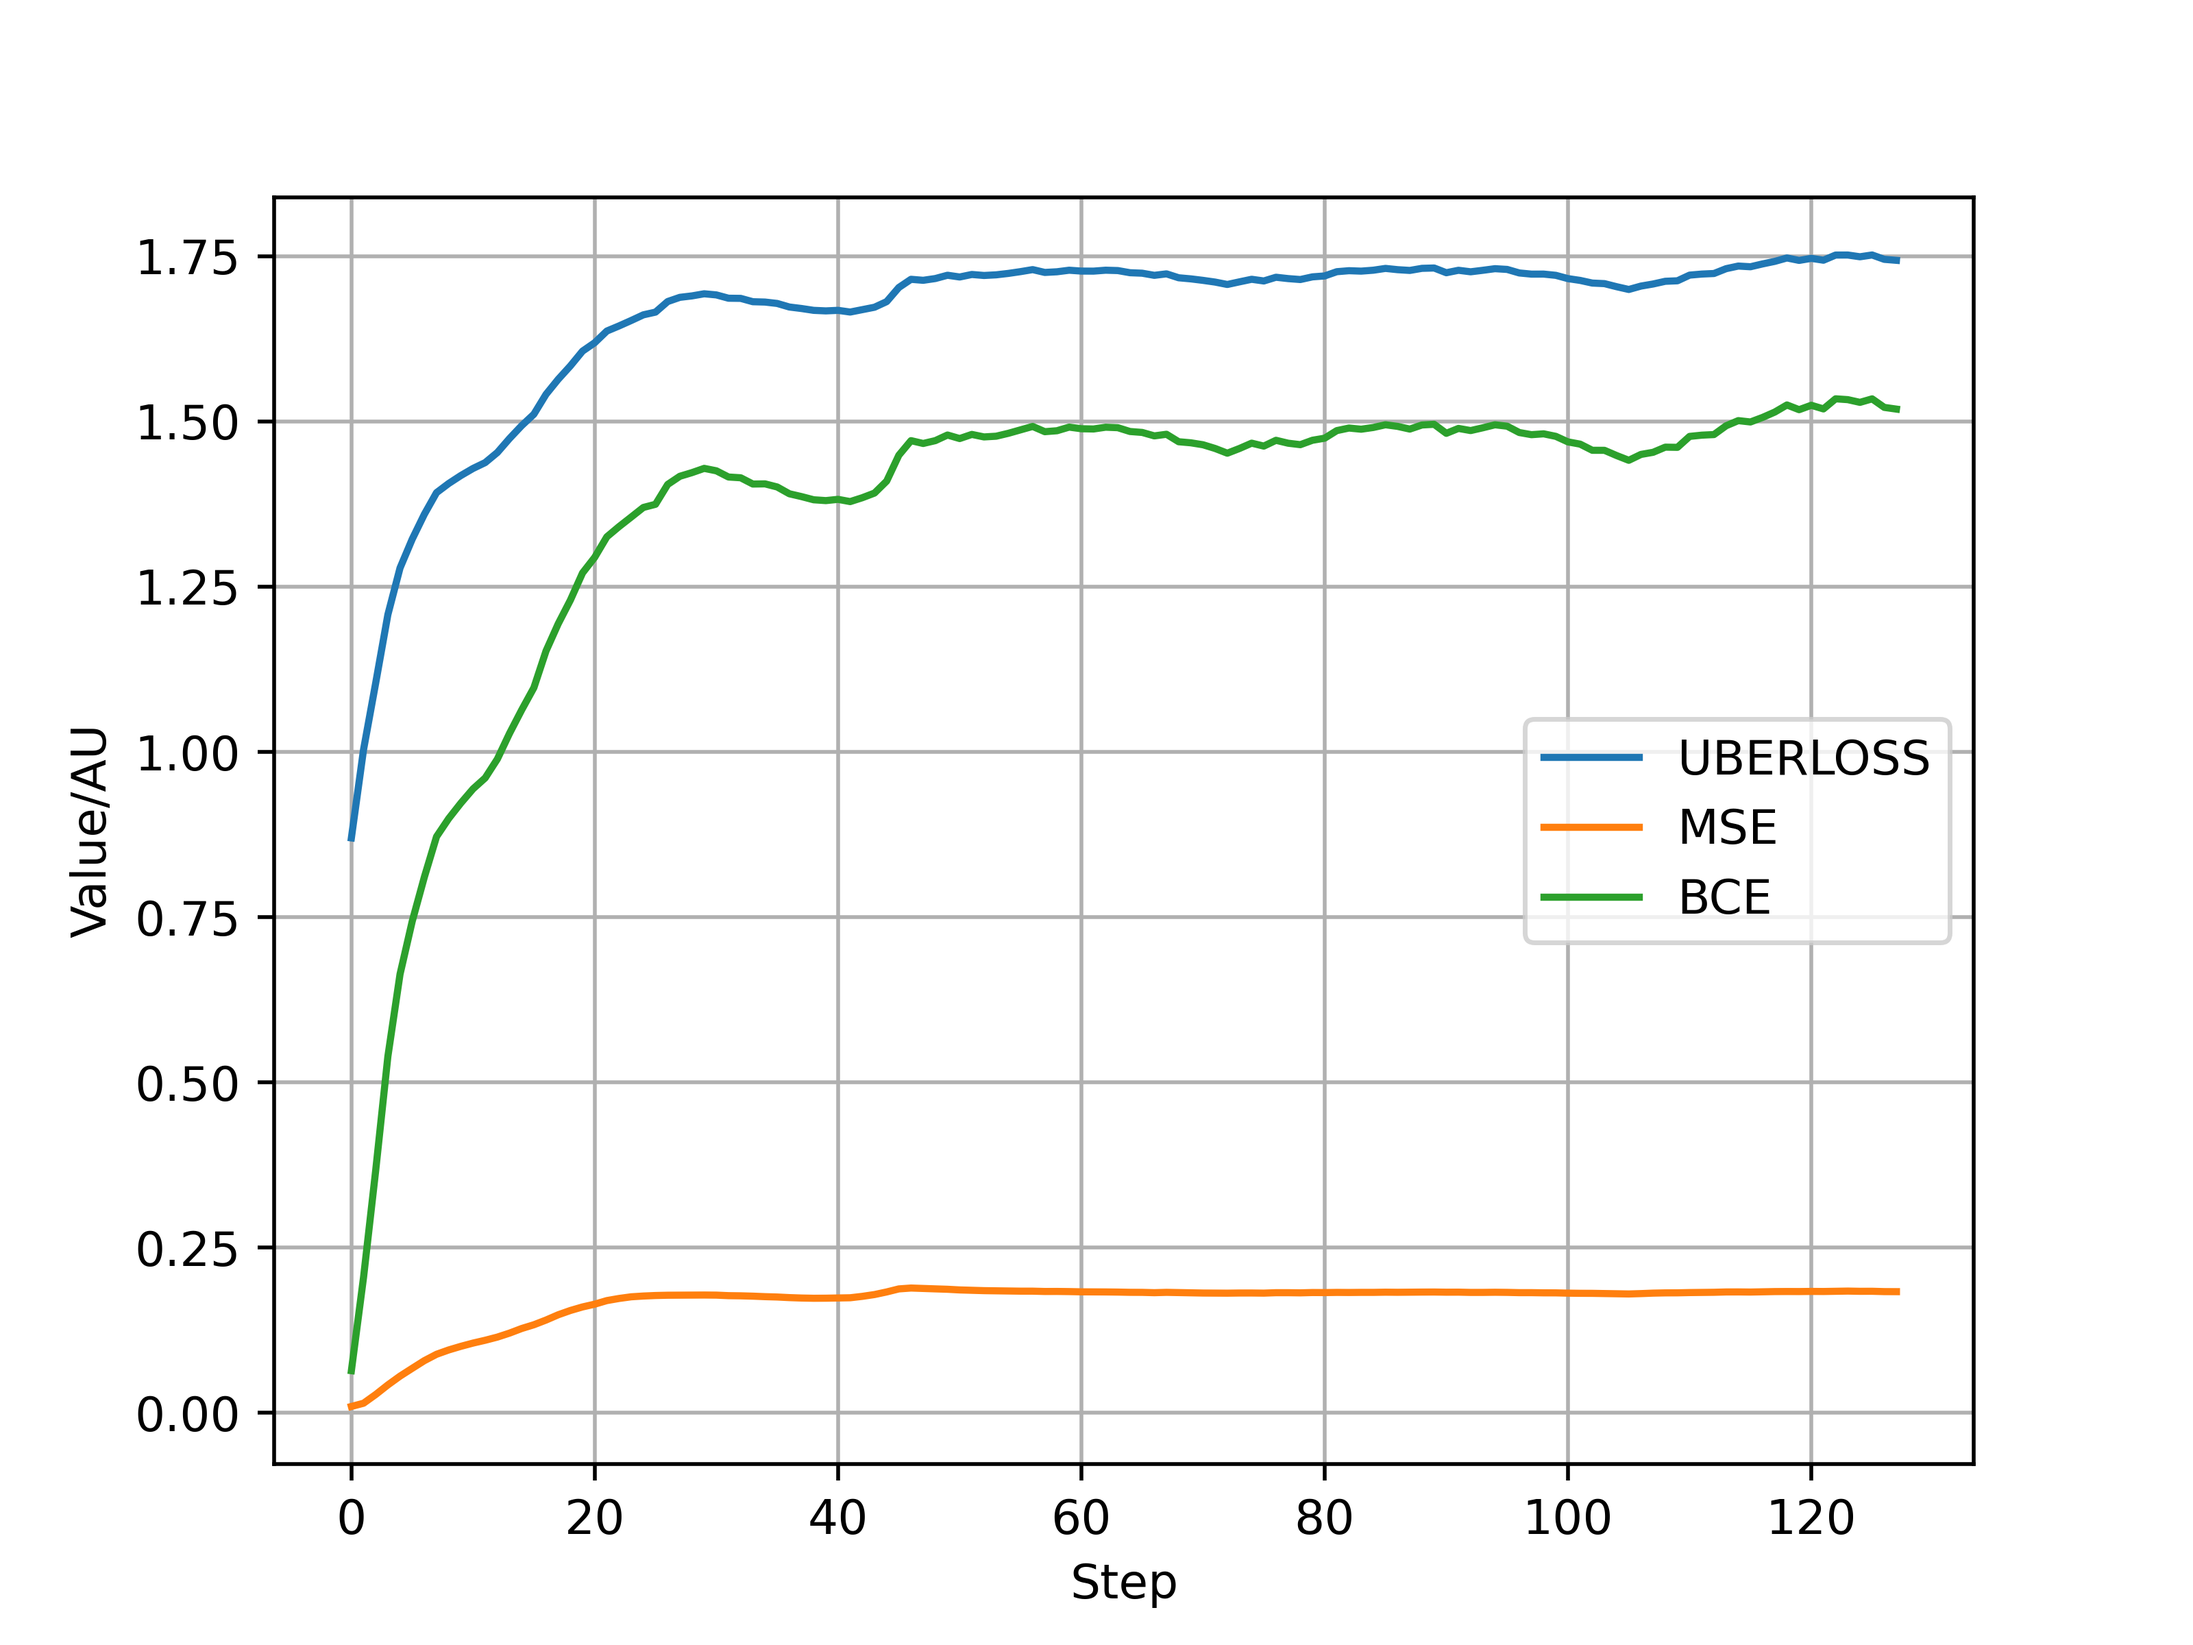
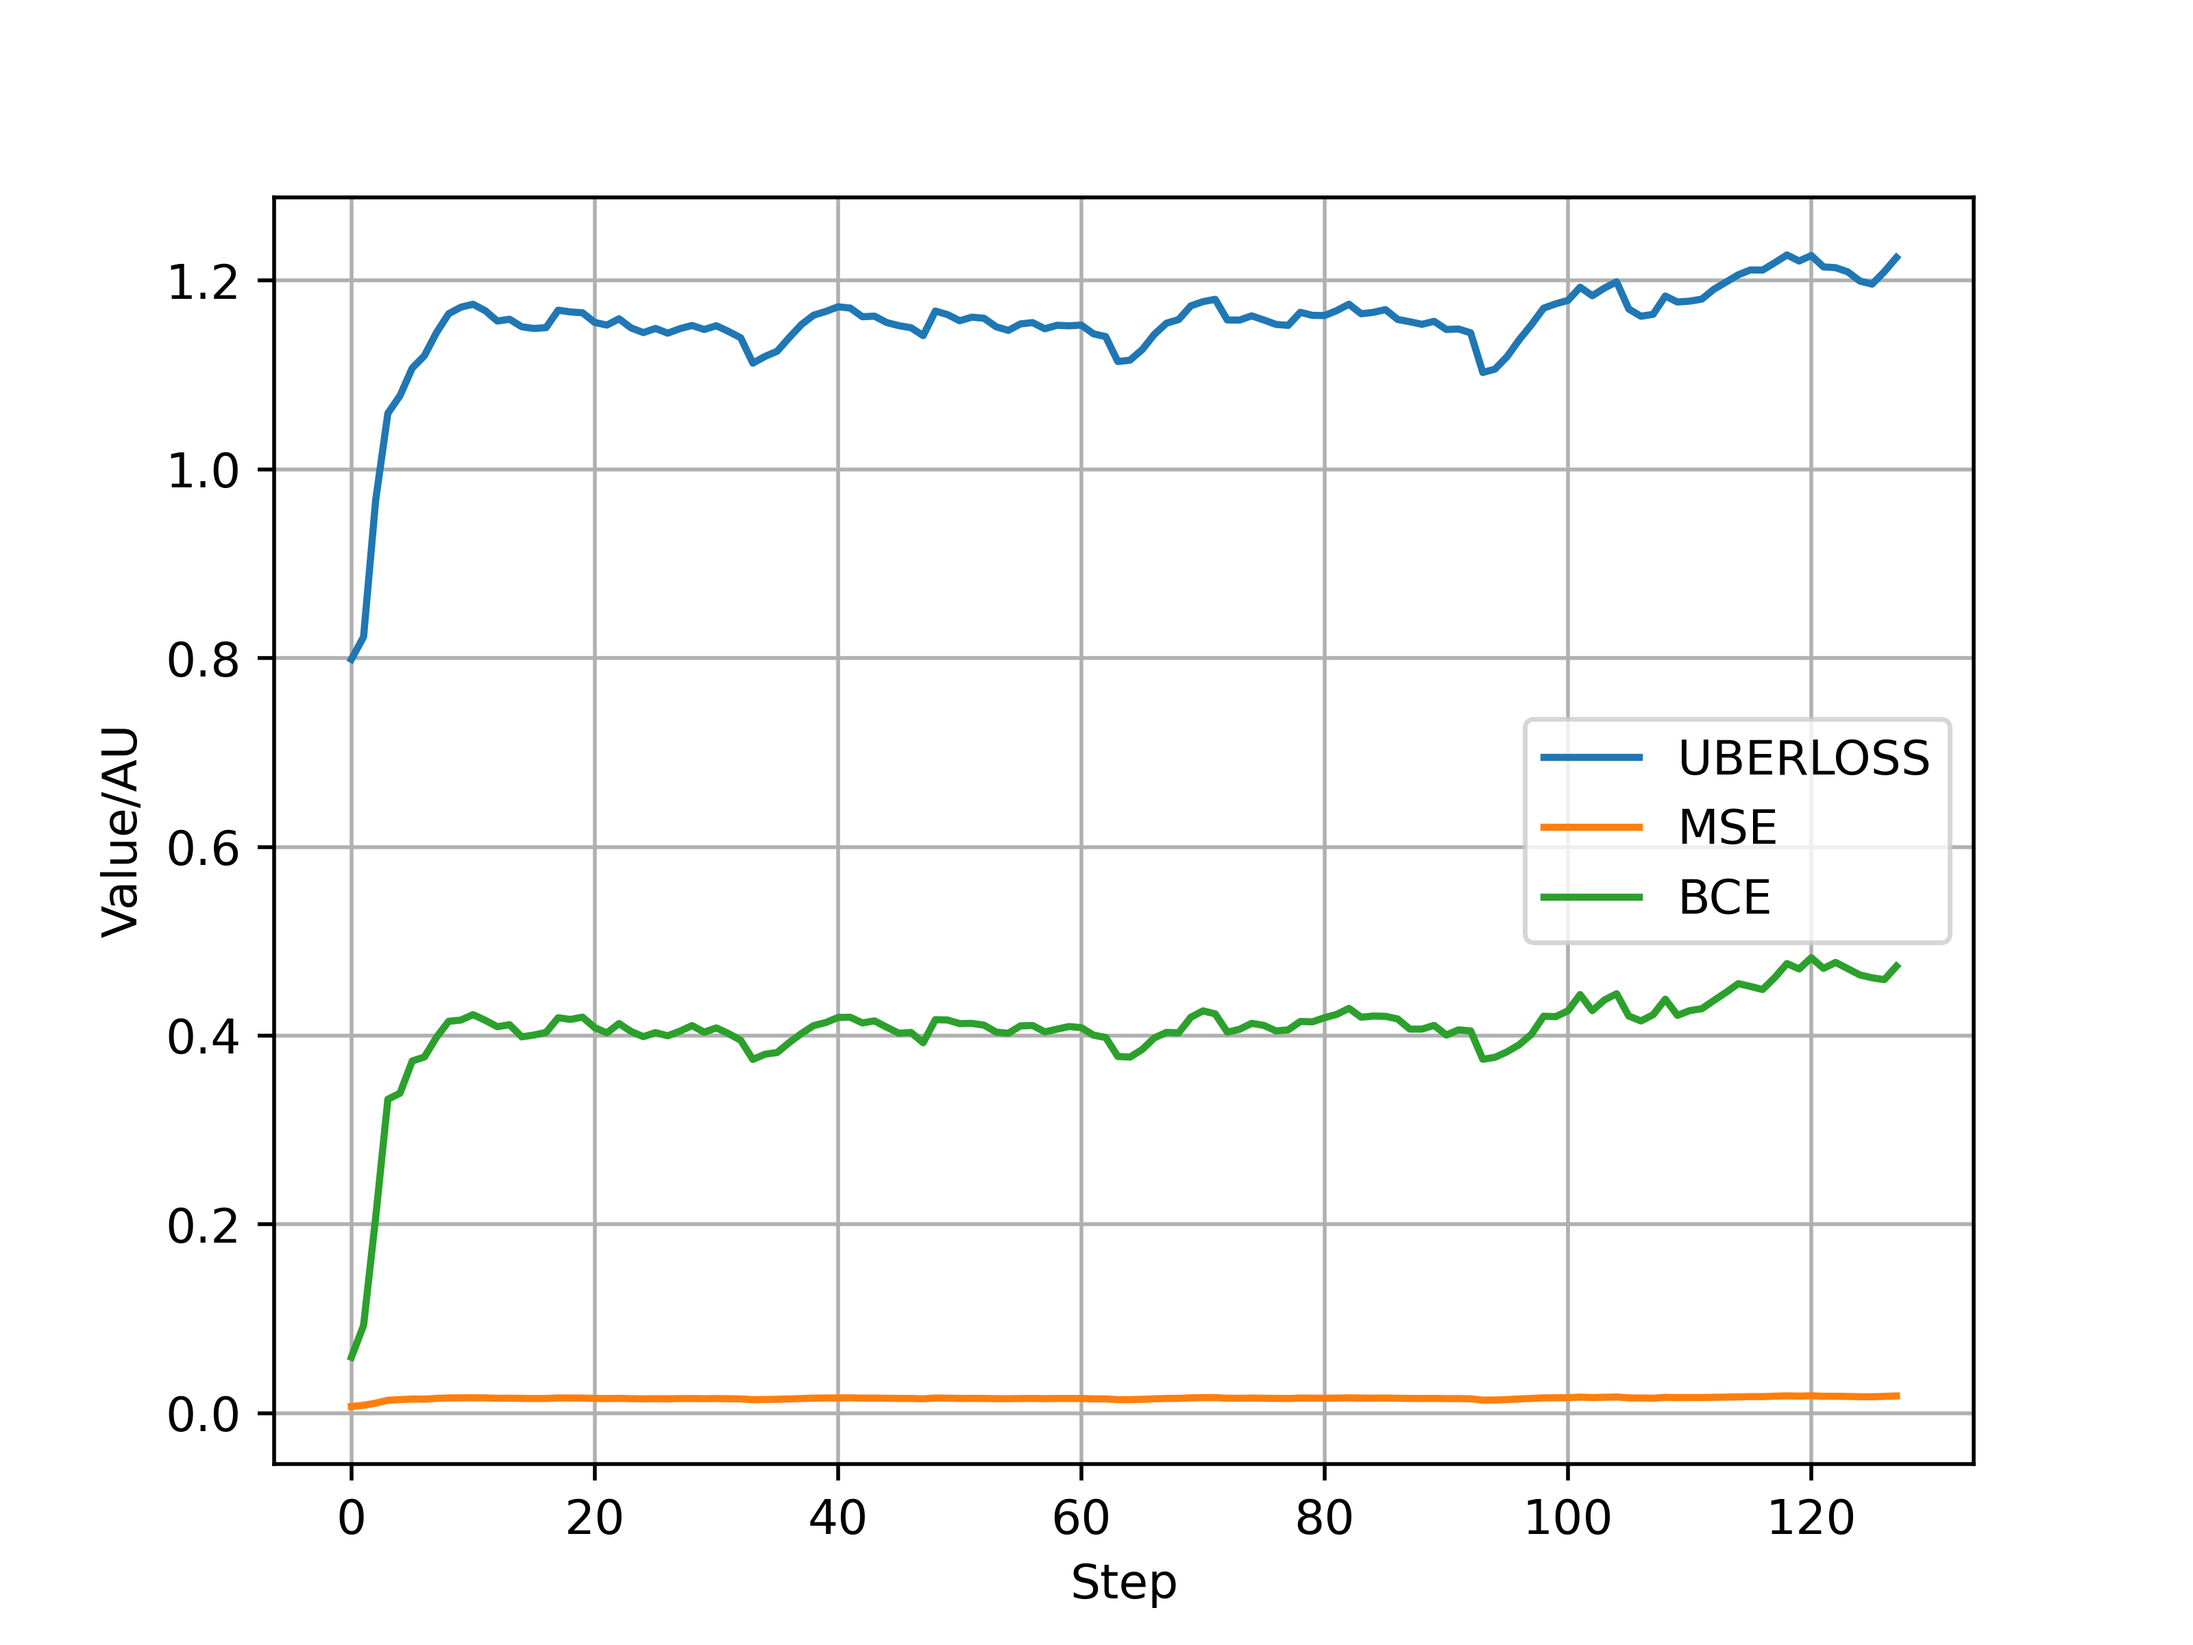
VAR made but changing now

diff --git a/create_network.py b/create_network.py
@@ -1,5 +1,6 @@
 import numpy as np
-from tensorflow.keras import layers, models, Model, initializers, losses, optimizers, activations
+import tensorflow as tf
+from tensorflow.keras import layers, models, Model, initializers, losses, optimizers, activations, Input, metrics
 import gc
 from tensorflow.keras import backend as k
 from tensorflow.keras.callbacks import Callback
@@ -573,6 +574,122 @@ def create_u_network(activation, optimizer, loss, input_frames,
         losses.binary_crossentropy, losses.mean_squared_logarithmic_error
     ])
     return model
+
+
+class Sampling(layers.Layer):
+    """Uses (z_mean, z_log_var) to sample z, the vector encoding a digit."""
+
+    def call(self, inputs):
+        z_mean, z_log_var = inputs
+        batch = tf.shape(z_mean)[0]
+        dim = tf.shape(z_mean)[1]
+        epsilon = tf.keras.backend.random_normal(shape=(batch, dim))
+        return z_mean + tf.exp(0.5 * z_log_var) * epsilon
+
+
+def create_encoder(latent_dim=2, image_size=64, image_frames=4, channels=3):
+    encoder_inputs = Input(shape=(image_size, image_size, 1))
+    x = layers.Conv2D(32, 3, activation="relu", strides=2, padding="same")(encoder_inputs)
+    x = inception_cell_revive(x, 1)
+    x = layers.Conv2D(64, 3, activation="relu", strides=2, padding="same")(x)
+    x = inception_cell_revive(x, 1)
+    x = layers.Flatten()(x)
+    x = layers.Dense(16, activation="relu")(x)
+    z_mean = layers.Dense(latent_dim, name="z_mean")(x)
+    z_log_var = layers.Dense(latent_dim, name="z_log_var")(x)
+    z = Sampling()([z_mean, z_log_var])
+    encoder = Model(encoder_inputs, [z_mean, z_log_var, z], name="encoder")
+    encoder.summary()
+    return encoder
+
+
+def create_decoder(encoder_output, latent_dim=2, image_size=64, image_frames=4):
+    x = layers.Dense(8 * 8 * 128, activation="relu")(encoder_output)
+    x = layers.Reshape((8, 8, 128))(x)
+    x = layers.Conv2DTranspose(128, 3, activation="relu", strides=2, padding="same")(x)
+    x = inception_cell_revive(x, 1)
+    x = layers.Conv2DTranspose(64, 3, activation="relu", strides=2, padding="same")(x)
+    x = inception_cell_revive(x, 1)
+    x = layers.Conv2DTranspose(32, 3, activation="relu", strides=2, padding="same")(x)
+    x = inception_cell_revive(x, 1)
+    decoder_outputs = layers.Conv2DTranspose(1, 3, activation="sigmoid", padding="same")(x)
+    decoder = Model(encoder_output, decoder_outputs, name="decoder")
+    decoder.summary()
+    return decoder
+
+
+class VAE(Model):
+    def __init__(self, encoder, decoder, input_shape, **kwargs):
+        super(VAE, self).__init__(**kwargs)
+        self.encoder = encoder
+        self.decoder = decoder
+        self.total_loss_tracker = metrics.Mean(name="total_loss")
+        self.reconstruction_loss_tracker = metrics.Mean(
+            name="reconstruction_loss"
+        )
+        self.kl_loss_tracker = metrics.Mean(name="kl_loss")
+        self.build((None,) + input_shape)
+
+    @property
+    def metrics(self):
+        return [
+            self.total_loss_tracker,
+            self.reconstruction_loss_tracker,
+            self.kl_loss_tracker,
+        ]
+
+    def train_step(self, data):
+        with tf.GradientTape() as tape:
+            z_mean, z_log_var, z = self.encoder(data)
+            reconstruction = self.decoder(z)
+            reconstruction_loss = tf.reduce_mean(
+                tf.reduce_sum(
+                    losses.binary_crossentropy(data, reconstruction), axis=(1, 2)
+                )
+            )
+            kl_loss = -0.5 * (1 + z_log_var - tf.square(z_mean) - tf.exp(z_log_var))
+            kl_loss = tf.reduce_mean(tf.reduce_sum(kl_loss, axis=1))
+            total_loss = reconstruction_loss + kl_loss
+        grads = tape.gradient(total_loss, self.trainable_weights)
+        self.optimizer.apply_gradients(zip(grads, self.trainable_weights))
+        self.total_loss_tracker.update_state(total_loss)
+        self.reconstruction_loss_tracker.update_state(reconstruction_loss)
+        self.kl_loss_tracker.update_state(kl_loss)
+        return {
+            "loss": self.total_loss_tracker.result(),
+            "reconstruction_loss": self.reconstruction_loss_tracker.result(),
+            "kl_loss": self.kl_loss_tracker.result(),
+        }
+
+
+def create_autoencoder(latent_dim=2, image_size=64, image_frames=4):
+    encoder_inputs = Input(shape=(image_size, image_size, 1))
+    x = layers.Conv2D(32, 3, activation="relu", strides=2, padding="same")(encoder_inputs)
+    x = inception_cell_revive(x, 1)
+    x = layers.Conv2D(64, 3, activation="relu", strides=2, padding="same")(x)
+    x = inception_cell_revive(x, 1)
+    x = layers.Flatten()(x)
+    encoded = layers.Dense(16, activation="relu")(x)
+    encoded = layers.Dense(latent_dim, activation="relu")(encoded)
+    # z_mean = layers.Dense(latent_dim, name="z_mean")(x)
+    # z_log_var = layers.Dense(latent_dim, name="z_log_var")(x)
+    # z = Sampling()([z_mean, z_log_var])
+    # encoder = Model(encoder_inputs, [z_mean, z_log_var, z], name="encoder")
+    x = layers.Dense(8 * 8 * 128, activation="relu")(encoded)
+    x = layers.Reshape((8, 8, 128))(x)
+    x = layers.Conv2DTranspose(128, 3, activation="relu", strides=2, padding="same")(x)
+    x = inception_cell_revive(x, 1)
+    x = layers.Conv2DTranspose(64, 3, activation="relu", strides=2, padding="same")(x)
+    x = inception_cell_revive(x, 1)
+    x = layers.Conv2DTranspose(32, 3, activation="relu", strides=2, padding="same")(x)
+    x = inception_cell_revive(x, 1)
+    decoded = layers.Conv2DTranspose(1, 3, activation="sigmoid", padding="same")(x)
+
+    encoder = Model(encoder_inputs, x)
+    decoder = Model(Input(shape=(latent_dim, )), decoded)
+    autoencoder = Model(encoder_inputs, decoded)
+    return encoder, decoder, autoencoder
+
 
 class ClearMemory(Callback):
     def on_epoch_end(self, epoch, logs=None):

diff --git a/bubble_prediction.py b/bubble_prediction.py
@@ -74,9 +74,9 @@ def main():
     # optimizer = optimizers.Adam()
 
     parameters_extra = [
-        [loss_functions.UBERLOSS, 4, 64, 5, True, True, 5, 3, 0.001, [0], True, [0], 5, "Andover", 20, True],
+        [loss_functions.UBERLOSS, 1, 64, 5, True, True, 5, 3, 0.001, [0], True, [0], 5, "Andover", 20, True],
     ]
-    scenario = 5
+    scenario = 6
     for parameters in parameters_extra:
         loss_function = parameters[0]
         epochs = parameters[14]
@@ -120,6 +120,54 @@ def main():
                 allow_upsampling=True, max_transpose_layers=max_transpose_layers, kernel_size=kernel_size,
                 dropout_rate=dropout_rate, inception=linearity
             )
+        elif scenario == 6:
+            # vae = create_network.VAE(
+            #     create_network.create_encoder(6, image_size, image_frames),
+            #     create_network.create_decoder(6),
+            #     (image_size, image_size, 1)
+            # )
+            # vae.compile(optimizer=optimizer)
+            # training_data = dat_to_training.create_training_data(
+            #     image_frames, timestep, image_size=image_size,
+            #     excluded_sims=[12], variants=[0], resolution=resolution, flips_allowed=False, easy_mode=False, var=True)
+            # print(training_data[0])
+            # vae.fit(training_data[0], epochs=1)
+            # vae.save("models/{}".format("VAR"))
+            #
+            # samples = 30
+            # figure = np.zeros((image_size*samples, image_size*samples))
+            # grid_x = np.linspace(-1, 1, samples)
+            # grid_y = np.linspace(-1, 1, samples)[::-1]
+            #
+            # for i, yi in enumerate(grid_y):
+            #     for j, xi in enumerate(grid_x):
+            #         z_sample = np.array([[xi, yi]])
+            #         x_decoded = vae.decoder.predict(z_sample)
+            #         digit = x_decoded[0].reshape(image_size, image_size)
+            #         figure[
+            #             i * image_size: (i + 1) * image_size,
+            #             j * image_size: (j + 1) * image_size,
+            #         ] = digit
+            #
+            # plt.figure(figsize=(30, 30))
+            # start_range = image_size // 2
+            # end_range = samples * image_size + start_range
+            # pixel_range = np.arange(start_range, end_range, image_size)
+            # sample_range_x = np.round(grid_x, 1)
+            # sample_range_y = np.round(grid_y, 1)
+            # plt.xticks(pixel_range, sample_range_x)
+            # plt.yticks(pixel_range, sample_range_y)
+            # plt.xlabel("z[0]")
+            # plt.ylabel("z[1]")
+            # plt.imshow(figure, cmap="Greys_r")
+            # plt.savefig("VAE_test.png", dpi=1000)
+            # plt.show()
+            sample = np.array([[1, 2, -3, 4, 5, -6]])
+            sample = np.tanh(sample)
+            decoded = vae.decoder.predict(sample)
+            plt.imshow(decoded)
+            plt.show()
+            exit()
         else:
             model = create_network.create_basic_network(
                 activation_function, optimizer, loss_function, image_frames, image_size

diff --git a/dat_to_training.py b/dat_to_training.py
@@ -221,7 +221,7 @@ def get_sim_result(source):
 
 def create_training_data(
         frames: int, timestep: int, validation_split=0.1, image_size=64,
-        variants=None, flips_allowed=True, resolution=0.001, excluded_sims=None, easy_mode=False):
+        variants=None, flips_allowed=True, resolution=0.001, excluded_sims=None, easy_mode=False, var=False):
     if excluded_sims is None:
         excluded_sims = []
     if variants is None:
@@ -372,8 +372,15 @@ def create_training_data(
     validation_data = tf.data.Dataset.from_tensor_slices((questions_array_valid, answers_array_valid))
     validation_data = validation_data.batch(batch_size).prefetch(tf.data.AUTOTUNE)
     #
+    if var:
+        testing_data = tf.data.Dataset.from_tensor_slices(questions_array[:, 0, :, :, 1:2])
+        testing_data = testing_data.batch(batch_size).prefetch(tf.data.AUTOTUNE)
+
+        validation_data = tf.data.Dataset.from_tensor_slices(questions_array_valid[:, 0, :, :, 1:2])
+        validation_data = validation_data.batch(batch_size).prefetch(tf.data.AUTOTUNE)
     return [testing_data, validation_data]
     # return questions_array, answers_array
+
 
 def process_bmp(filename, image_size):
     x, y = np.load(filename)
